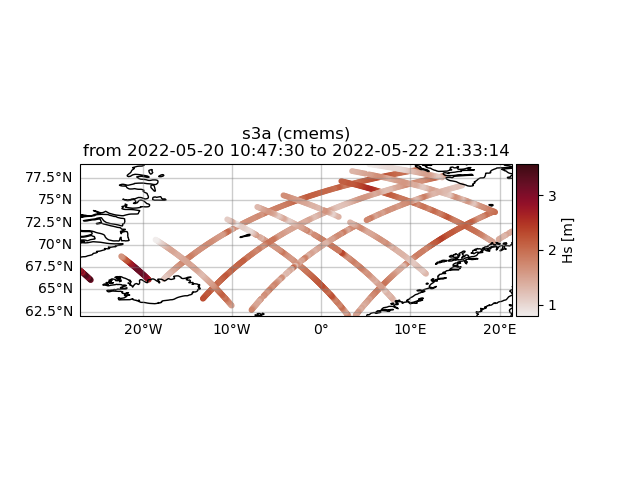
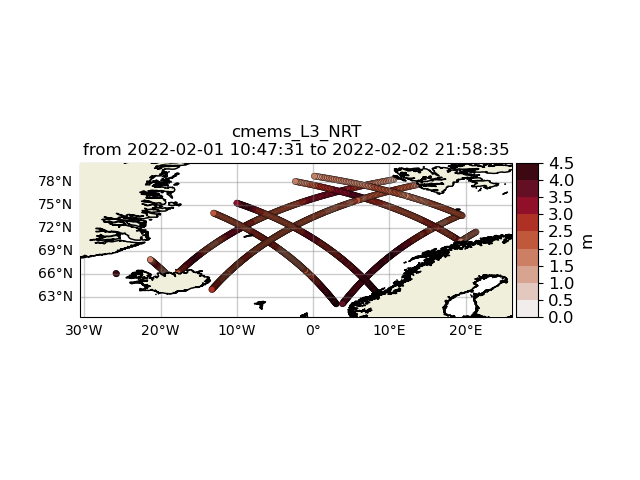
Change satellite filter part, added download method description

Changed region(s): [[0.0312, 0.25, 0.9375, 0.7188]]

diff --git a/docs/tutorials_sat_filters.rst b/docs/tutorials_sat_filters.rst
@@ -1,12 +1,21 @@
 Apply filters
 #############
 
-Basic, but very useful, filters can be applied to the altimtery time series by activating the "filterData" key word and some filter specific key words regarding the desired filter. An example of filtering the CMEMS L3 time series is given below:
+Basic, but very useful, filters can be applied to the altimtery time series using filter methods. An example of filtering the CMEMS L3 time series is given below:
 
 .. code-block:: python3
 
-    >>> from wavy.satmod import satellite_class as sc
-    >>> sco_lm = sc(sdate="2022-5-20",edate="2022-5-23",region="NordicSeas", filterData=True, land_mask = True)
+    >>> from wavy.satellite_module import satellite_class as sc
+    >>> path = '/home/fabienc/Projects/patriks_fork_wavy/wavy/tests/data/L3/s3a'
+    >>> nID = 'cmems_L3_NRT'
+    >>> name = 's3a'
+    >>> region = 'NordicSeas'
+    >>> sd = '2022-2-1'
+    >>> ed = '2022-2-3'
+
+    >>> sco_lm = sc(nID=nID, name=name, sd=sd, ed=ed, region=region)\
+    ...        .populate(path=path)\
+    ...        .filter_landMask()
     >>> sco_lm.quicklook()
 
 .. image:: ./lm_example.png
@@ -14,13 +23,12 @@ Basic, but very useful, filters can be applied to the altimtery time series by a
 
 In the above example we filter the retrieved Sentinel-3A L3 time series of seignificant wave height by an highly accurate land/sea mask filter for the region "NordicSeas". In this case there was no misplaced footprint and all values are used.
 
-Another function is to specify distance to shore in order to exclude satellite footprints where the wave form was possibly corrupted by land in its vicinity. A lower and uper bound can be introduced. For this task we first have to activate the "distance-to-coast mask" dtc_mask and then the upper and lower limits by setting "dtc_llim" and "dtc_ulim", respectively.
+Another function is to specify distance to shore in order to exclude satellite footprints where the wave form was possibly corrupted by land in its vicinity. A lower and uper bound can be introduced. For this task we can apply an additional method to the already filtered data obtained above. The method is filter_distance_to_coast, and must be given the upper and lower limits by setting "llim" and "ulim" in meters, respectively.
 
 .. code-block:: python3
 
-    >>> from wavy.satmod import satellite_class as sc
-    >>> sco_lm_dc = sc(sdate="2022-5-20",edate="2022-5-23",region="NordicSeas", filterData=True, land_mask = True, dtc_mask= True,dtc_llim = 200, dtc_ulim= 300)
-    >>> sco_lm_dc.quicklook()
+    >>> sco_lm = sco_lm.filter_distance_to_coast(llim=200000, ulim=300000)
+    >>> sco_lm.quicklook()
 
 .. image:: ./lm_example_coast.png
    :scale: 100

diff --git a/docs/tutorials_sat_import.rst b/docs/tutorials_sat_import.rst
@@ -26,6 +26,8 @@ Now, open python in the wavy conda environment:
    $ conda activate wavy
    $ python
 
+First you initialize a satellite class object with chosen parameters. 
+
 .. code-block:: python3
 
    >>> # imports
@@ -41,7 +43,12 @@ Now, open python in the wavy conda environment:
    >>> ed = "2023-2-1 12" # not necessary if twin is specified
 
    >>> # retrieval
-   >>> sco = sc(sd=sd,ed=ed,region=region,nID=nID,name=name).populate()
+   >>> sco = sc(sd=sd,ed=ed,region=region,nID=nID,name=name)
+   
+Then you can import the corresponding data with the .populate() method. 
+
+.. code-block:: python3
+    >>> sco = sco.populate()
 
 Or in one line:
 
@@ -115,7 +122,6 @@ You have now read in 1 hour of significant wave height from the satellite missio
  
    ### satellite_class object populated ###
   # ----- 
-
 
 The satellite_class object has multiple class methods and class variables:
 

diff --git a/docs/tutorials_sat_download.rst b/docs/tutorials_sat_download.rst
@@ -106,4 +106,20 @@ Similarily one can download L2P and L3 multi-mission altimetry data from the CED
 .. code-block:: bash
 
    $ ./wavyDownload.py -sat multi -sd 2017112000 -ed 2017112100 -product cci_L3
+   
+You can also download altimeter data directly from python with the following lines. 
+
+.. code-block:: bash
+
+   >>> from wavy.satellite_module import satellite_class as sc
+   >>> nID = 'cmems_L3_NRT'
+   >>> name = 's3a'
+   >>> sd = '2023-11-10 00'
+   >>> ed = '2023-11-10 10'
+   >>> # Initialize sc object
+   >>> sco = sc(sd=sd,ed=ed,nID=nID,name=name)
+   >>> # Download the data to a chosen directory
+   >>> path = '/home/patrikb/tmp_altimeter/L3/s3a'
+   >>> sco.download(nproc=4, path=path)
+
 
